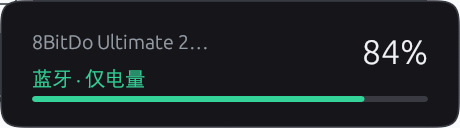
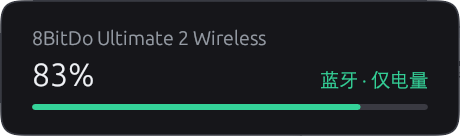
fix(ui): 完整显示设备名，固定窗口高度，消除闪动
- 设备名独占一行，不再截断
- 允许窗口按内容调整大小（之前 with_resizable(false) 导致高度命令被忽略）
- 空态高度与一行等高，0/1 设备切换不再改变窗口尺寸
- 设备短暂掉线不再立即删除行，交给超时回收，避免卡片闪一下「未检测到手柄」

diff --git a/crates/battery-widget/src/app.rs b/crates/battery-widget/src/app.rs
@@ -18,8 +18,8 @@ use crate::settings::Settings;
 
 const WIDTH: f32 = 230.0;
 const PAD: f32 = 10.0;
-const ROW_HEIGHT: f32 = 44.0;
-const EMPTY_HEIGHT: f32 = 86.0;
+const ROW_HEIGHT: f32 = 48.0;
+const EMPTY_HEIGHT: f32 = PAD * 2.0 + ROW_HEIGHT;
 /// Show at most this many rows; further devices are summarised.
 const MAX_ROWS: usize = 5;
 const CORNER_RADIUS: f32 = 16.0;
@@ -96,15 +96,17 @@ impl eframe::App for App {
         let devices = collector::snapshot(&self.shared);
         let error = self.shared.lock().unwrap().error.clone();
 
-        let visible = devices.len().min(MAX_ROWS);
+        let visible = devices.len().min(MAX_ROWS).max(1);
         let overflow = devices.len().saturating_sub(MAX_ROWS);
-        let height = if devices.is_empty() {
-            EMPTY_HEIGHT
-        } else {
-            PAD * 2.0 + visible as f32 * ROW_HEIGHT + if overflow > 0 { 18.0 } else { 0.0 }
-        };
+        // The empty state uses the same height as a single row so that a
+        // controller sleeping and waking does not resize the window.
+        let height =
+            PAD * 2.0 + visible as f32 * ROW_HEIGHT + if overflow > 0 { 18.0 } else { 0.0 };
 
-        if (height - self.window_height).abs() > 0.5 {
+        // Compare against the real window size: the compositor may ignore or
+        // clamp a request, and a stale field would stop us from retrying.
+        let actual = ctx.input(|i| i.viewport().inner_rect).map(|r| r.height());
+        if actual.map_or(true, |h| (h - height).abs() > 0.5) {
             self.window_height = height;
             ctx.send_viewport_cmd(egui::ViewportCommand::InnerSize(Vec2::new(WIDTH, height)));
         }
@@ -260,18 +262,12 @@ fn paint_row(painter: &egui::Painter, card: Rect, top: f32, state: &DeviceState)
     let degraded = state.degraded;
     let muted = Color32::from_rgb(150, 156, 165);
 
-    // Long product names (e.g. "8BitDo Ultimate 2 Wireless") would collide with
-    // the percentage, so trim them and show the transport on the state line.
-    let header = if reading.device.chars().count() > 18 {
-        let trimmed: String = reading.device.chars().take(17).collect();
-        format!("{trimmed}…")
-    } else {
-        reading.device.clone()
-    };
+    // The name owns the first line, so it does not have to be truncated even
+    // for long product names like "8BitDo Ultimate 2 Wireless".
     painter.text(
-        egui::pos2(card.left() + 16.0, top + 5.0),
+        egui::pos2(card.left() + 16.0, top + 3.0),
         Align2::LEFT_TOP,
-        header,
+        &reading.device,
         FontId::proportional(10.0),
         muted,
     );
@@ -286,10 +282,10 @@ fn paint_row(painter: &egui::Painter, card: Rect, top: f32, state: &DeviceState)
         percent_text
     };
     painter.text(
-        egui::pos2(card.right() - 16.0, top + 16.0),
-        Align2::RIGHT_CENTER,
+        egui::pos2(card.left() + 16.0, top + 18.0),
+        Align2::LEFT_TOP,
         percent_text,
-        FontId::proportional(17.0),
+        FontId::proportional(16.0),
         if stale || degraded {
             muted
         } else {
@@ -311,15 +307,15 @@ fn paint_row(painter: &egui::Painter, card: Rect, top: f32, state: &DeviceState)
     };
     let accent = accent_color(reading, degraded, stale);
     painter.text(
-        egui::pos2(card.left() + 16.0, top + 30.0),
-        Align2::LEFT_CENTER,
+        egui::pos2(card.right() - 16.0, top + 30.0),
+        Align2::RIGHT_CENTER,
         &state_label,
-        FontId::proportional(10.0),
+        FontId::proportional(9.5),
         if stale || degraded { muted } else { accent },
     );
 
     let bar = Rect::from_min_size(
-        egui::pos2(card.left() + 16.0, top + 38.0),
+        egui::pos2(card.left() + 16.0, top + 42.0),
         Vec2::new(card.width() - 32.0, 3.0),
     );
     painter.rect_filled(bar, 1.5, Color32::from_rgb(58, 58, 66));

diff --git a/crates/battery-widget/src/collector.rs b/crates/battery-widget/src/collector.rs
@@ -16,7 +16,7 @@ use battery_core::model::{BatteryReading, ChargeState, Freshness, Precision, Tra
 use battery_core::xinput;
 
 /// How long an entry stays visible after its last update.
-const ENTRY_TTL: Duration = Duration::from_secs(8);
+const ENTRY_TTL: Duration = Duration::from_secs(10);
 /// A reading older than this is shown as "idle".
 pub const STALE_AFTER: Duration = Duration::from_secs(5);
 /// Bluetooth battery values are polled, so they may be older than that.
@@ -68,10 +68,13 @@ impl Shared {
         self.devices.remove(key);
     }
 
+    /// Drop entries that have been silent for a while. The grace period keeps
+    /// a controller that briefly stops reporting from making the card flicker.
     fn prune(&mut self) {
         let now = Instant::now();
-        self.devices
-            .retain(|_, state| now.duration_since(state.last_update) < ENTRY_TTL);
+        self.devices.retain(|_, state| {
+            now.duration_since(state.last_update) < state.stale_after + ENTRY_TTL
+        });
     }
 }
 
@@ -86,7 +89,8 @@ fn spawn_dualsense(state: Arc<Mutex<Shared>>) {
     std::thread::spawn(move || loop {
         let controller = enumerate_dualsense().into_iter().next();
         let Some(controller) = controller else {
-            state.lock().unwrap().remove("dualsense");
+            // Do not remove the row here: a sleeping controller disappears for
+            // a moment and the UI should not collapse. `prune` retires it.
             std::thread::sleep(Duration::from_millis(1200));
             continue;
         };
@@ -168,18 +172,9 @@ fn spawn_bluetooth(state: Arc<Mutex<Shared>>) {
                 .upsert(&key, reading, false, BLE_STALE_AFTER);
         }
 
-        // Drop entries for devices that disappeared.
-        let mut shared = state.lock().unwrap();
-        let stale: Vec<String> = shared
-            .devices
-            .keys()
-            .filter(|k| k.starts_with("ble:") && !seen.contains(k))
-            .cloned()
-            .collect();
-        for key in stale {
-            shared.remove(&key);
-        }
-        drop(shared);
+        // Stale BLE entries are retired by `prune`; `seen` is only used to keep
+        // polling the same set of devices.
+        let _ = &seen;
 
         std::thread::sleep(Duration::from_secs(10));
     });

diff --git a/crates/battery-widget/src/main.rs b/crates/battery-widget/src/main.rs
@@ -19,7 +19,6 @@ fn main() -> eframe::Result<()> {
         .with_decorations(false)
         .with_transparent(true)
         .with_always_on_top()
-        .with_resizable(false)
         .with_taskbar(false);
 
     if let (Some(x), Some(y)) = (settings.window_x, settings.window_y) {
